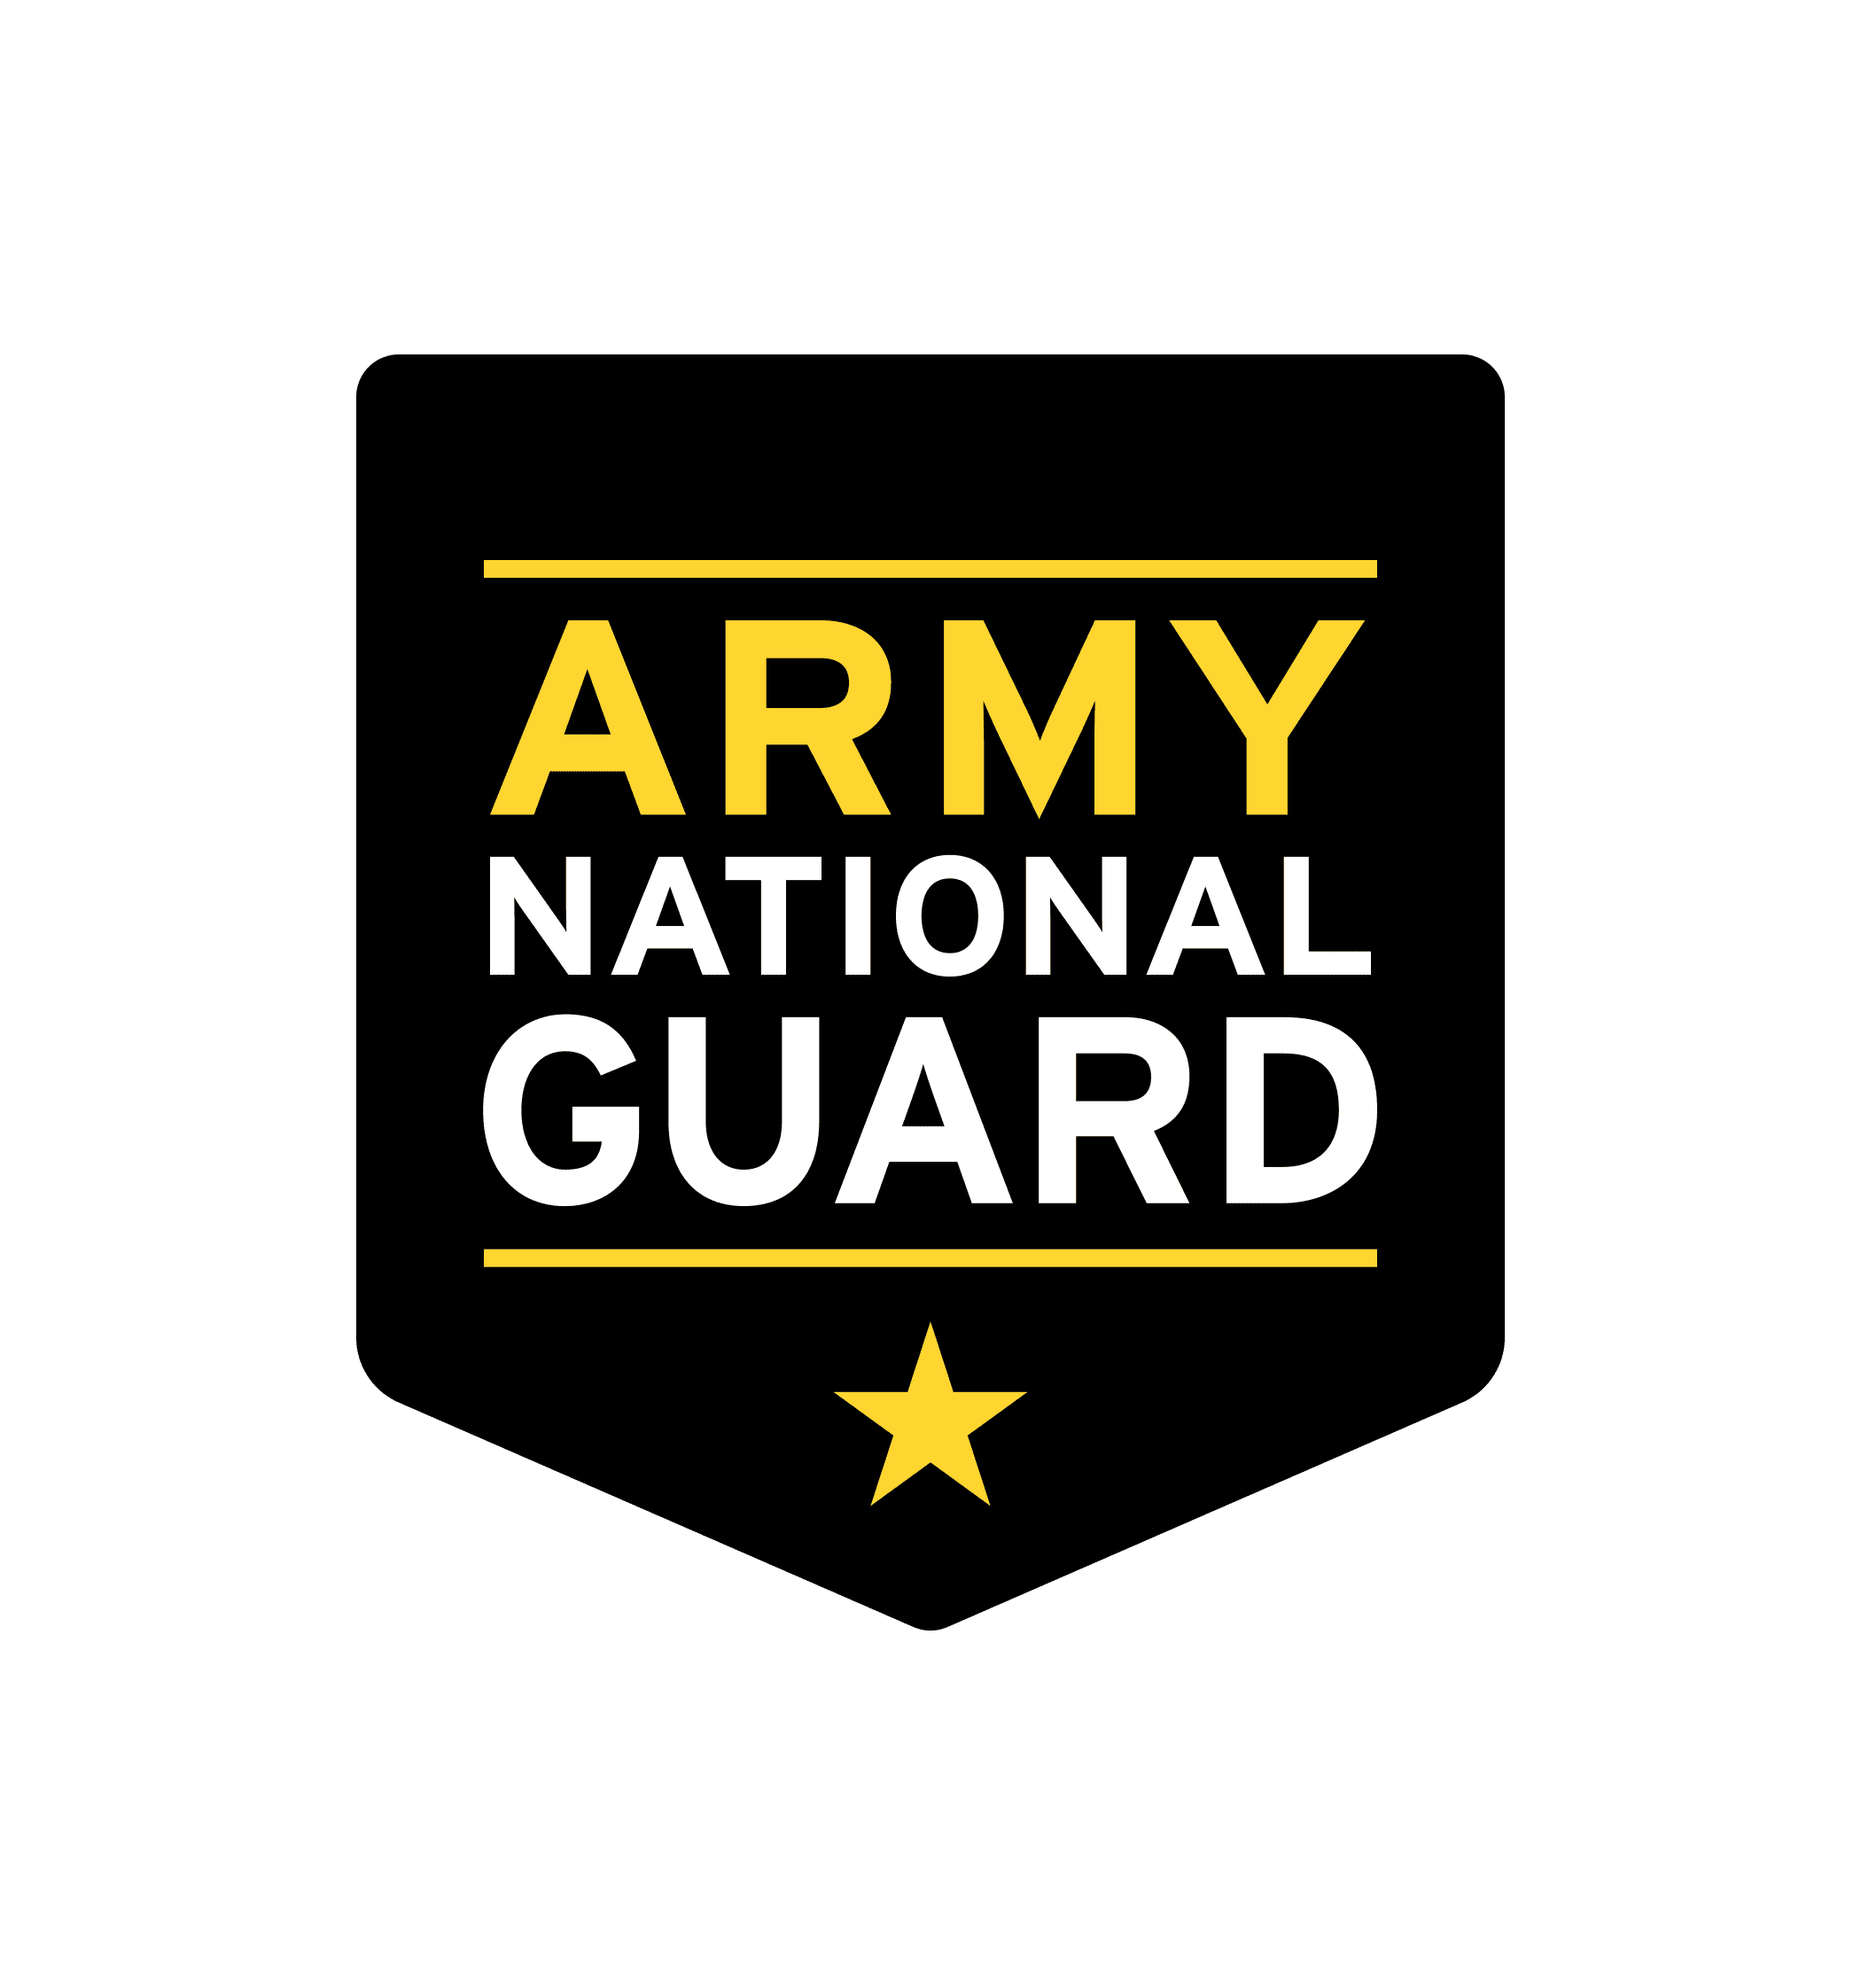
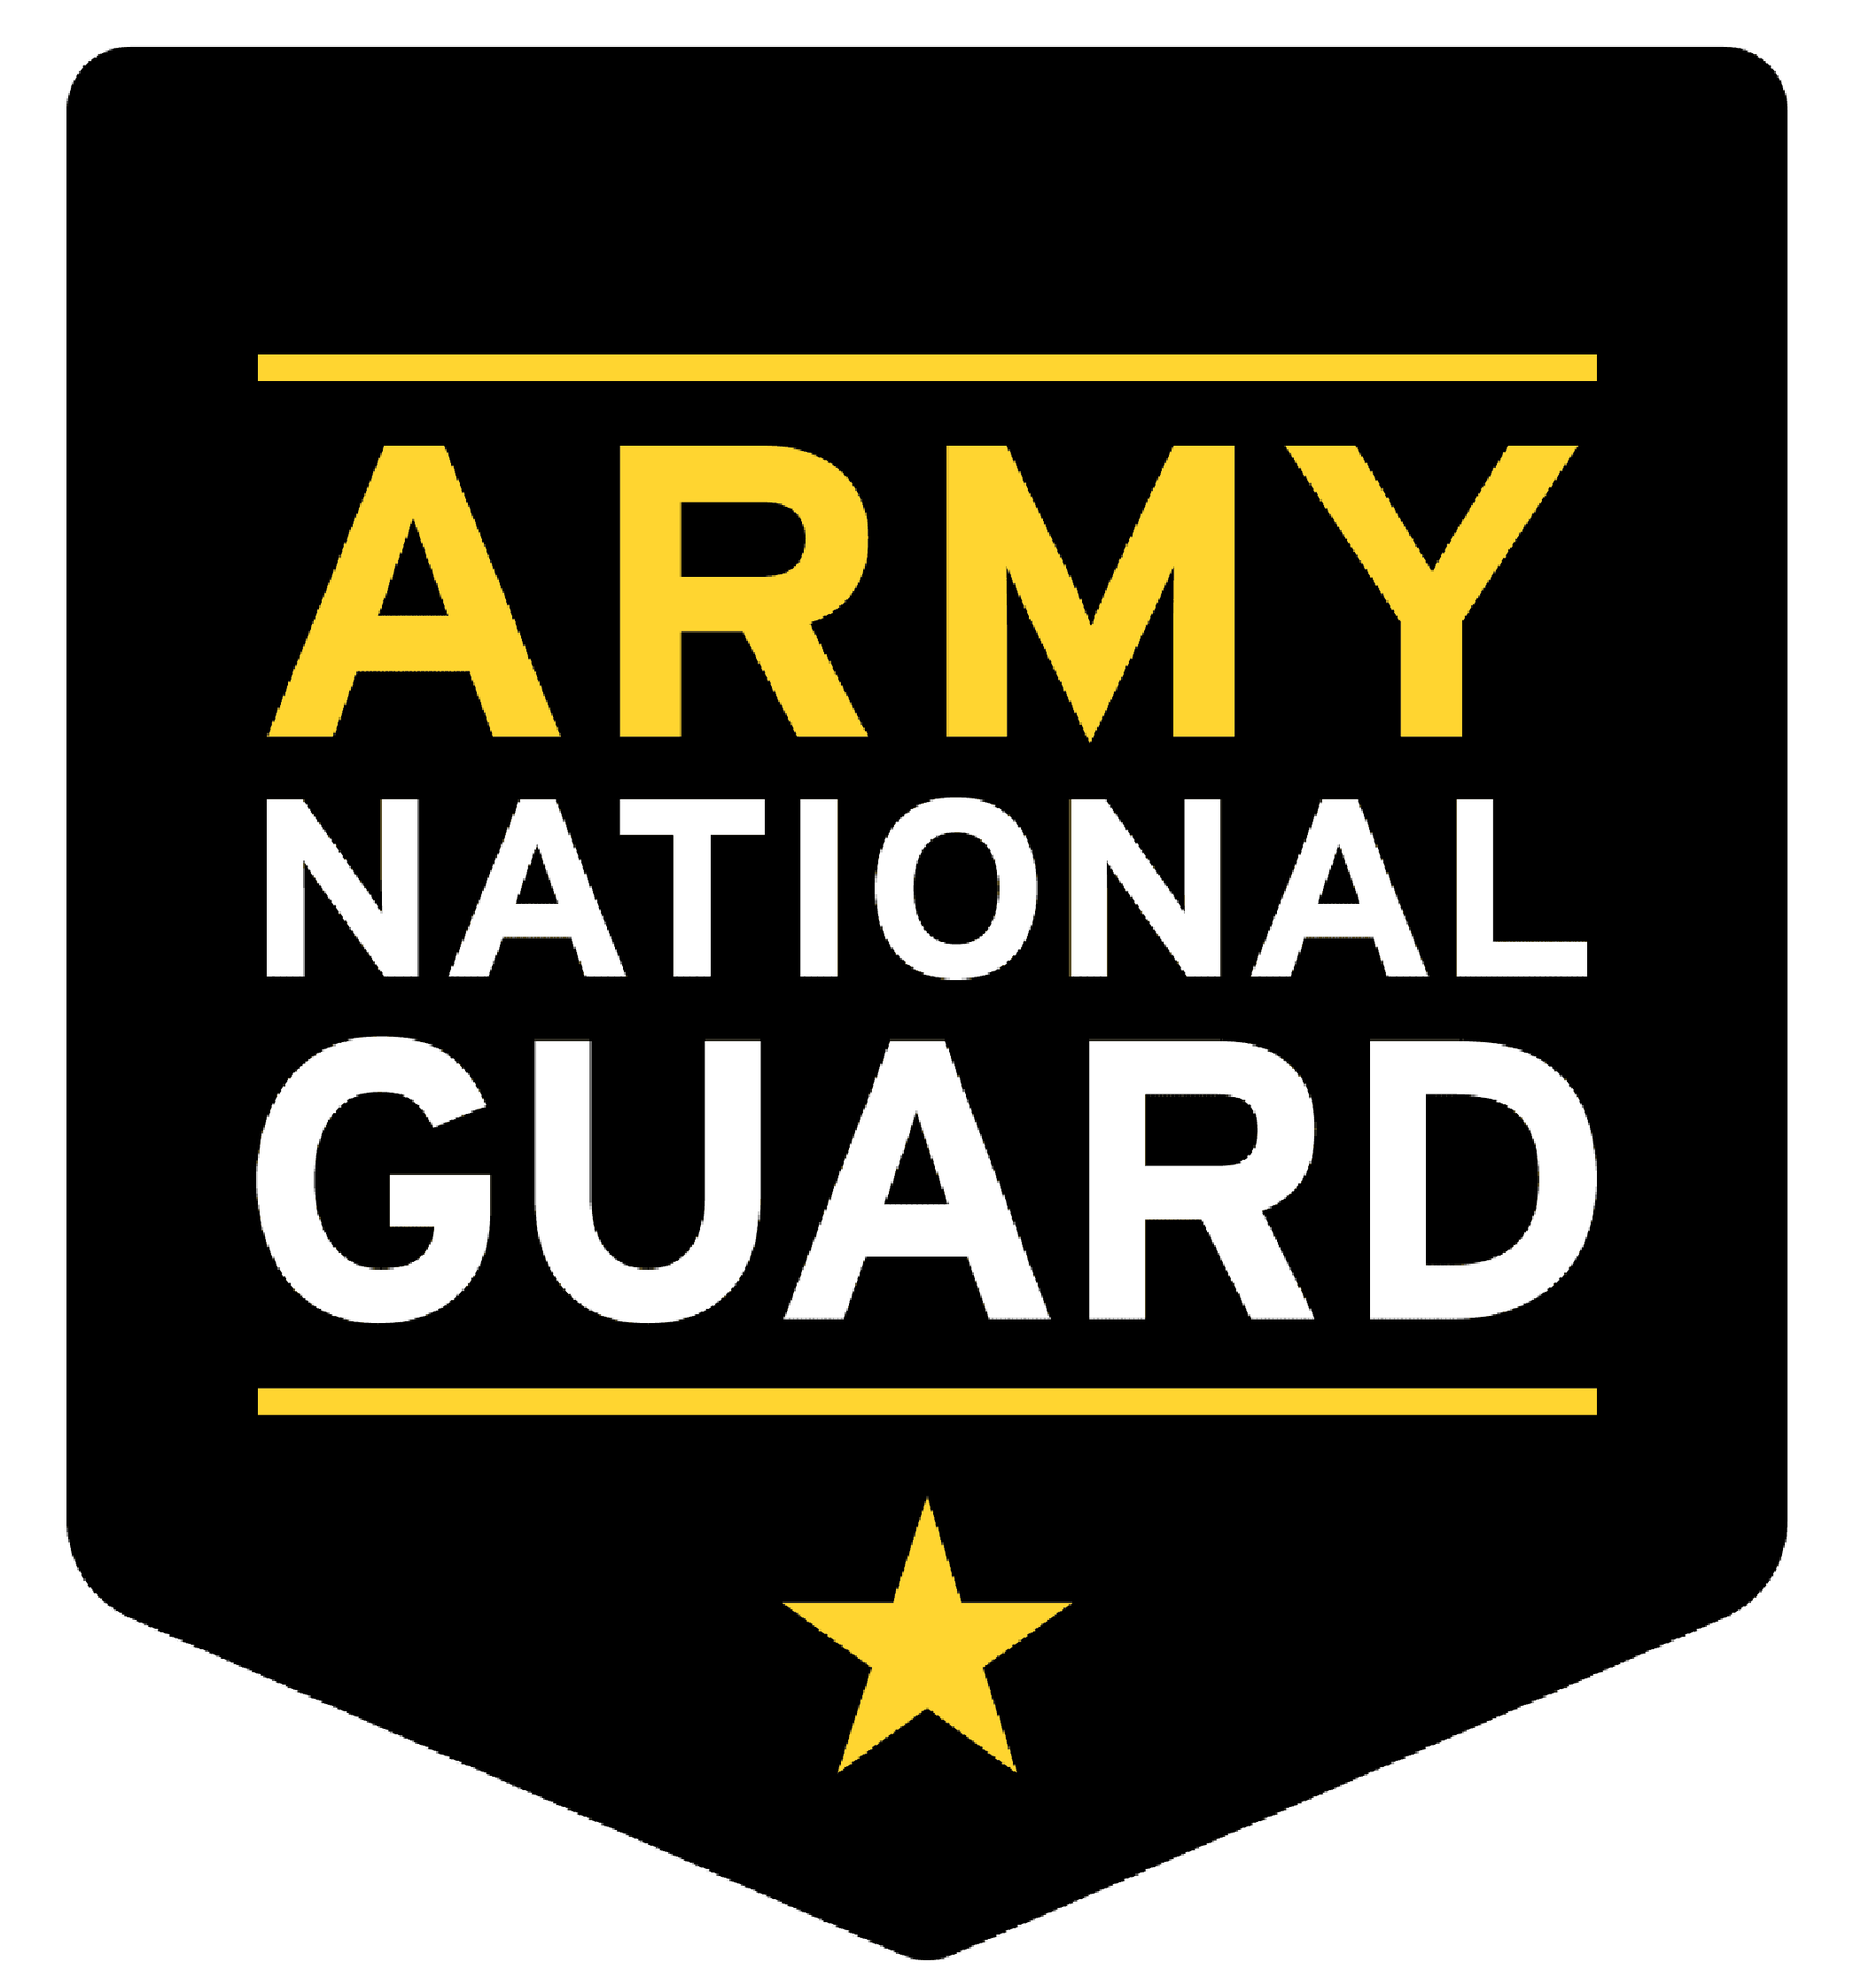
Images resized, profile card layout

diff --git a/Final-Project/professional-webpage/src/views/AboutMe.jsx b/Final-Project/professional-webpage/src/views/AboutMe.jsx
@@ -1,6 +1,7 @@
 import { useState, useEffect } from 'react';
 import '../styles/App.css';
 import Logo from '../components/Logo.jsx';
+import ProfileCard from '../components/ProfileCard.jsx';
 import axios from 'axios';
 
 export default function AboutMe() {
@@ -22,75 +23,58 @@ export default function AboutMe() {
         <header className="bg-indigo-800 text-5xl mt-20 w-full text-center rounded-xl shadow-xl p-3 border border-indigo-700">
           <img 
             className="h-40 w-40 object-cover rounded-full mx-auto shadow-lg hover:scale-105 transition-transform duration-300" 
-            src="../public/images/profile-image.png"
+            src="../images/profile-image.png"
             alt="profile"
           />
           <h1 className="mt-6 mb-6 text-blue-100 font-semibold text-5xl tracking-wide">{info.name}</h1>
           <div className="flex justify-center space-x-6 mt-4">
             <Logo
               link={info.contactInfo?.linkedin}
-              image="../public/images/linkedin-logo.png"
-              styling="hover:opacity-80 h-8 transition-transform duration-300 hover:scale-110"
+              path="../images/linkedin-logo.png"
+              styling="link"
             />
             <Logo
               link={info.contactInfo?.github}
-              image="../public/images/github-logo.png"
-              styling="hover:opacity-80 h-8 transition-transform duration-300 hover:scale-110"
+              path="../images/github-logo.png"
+              styling="link"
             />
             <Logo
               link={info.contactInfo?.discord}
-              image="../public/images/discord-logo.png"
-              styling="hover:opacity-80 h-9 transition-transform duration-300 hover:scale-110"
+              path="../images/discord-logo.png"
+              styling="link"
             />
             <Logo
               link={info.contactInfo?.email}
-              image="../public/images/gmail-logo.png"
-              styling="hover:opacity-80 h-10 transition-transform duration-300 hover:scale-110"
+              path="../images/gmail-logo.png"
+              styling="link"
             />
           </div>
         </header>
 
         <main className="w-full bg-indigo-900/80 backdrop-blur-sm rounded-xl shadow-xl p-10 mt-14 text-left text-blue-100 max-w-5xl mx-auto">
-            <h2 className="text-4xl font-bold mb-4 text-center text-indigo-100">Biography</h2>
-            <p className="text-xl text-center mb-6 text-indigo-300">Age: {info.age}</p>
-            <p
-              className="text-lg leading-relaxed border-l-4 border-indigo-400 pl-6 text-blue-200"
-              dangerouslySetInnerHTML={{ __html: info.biography }}
-            />
+          
+          <ProfileCard
+            title='Biography'
+            path={`Age: ${info.age}`}
+            description={info.biography}
+          />
+          
+          <div className="border-t-4 border-indigo-500 opacity-70 my-16 mx-4 rounded-sm"></div>
 
-            <div className="border-t-4 border-indigo-500 opacity-70 my-16 mx-4 rounded-sm"></div>
+          <ProfileCard
+            title='Education'
+            path='../images/ATU.png'
+            description={info.education?.atu}
+          />
 
-            <h2 className="text-4xl font-bold mb-10 text-center text-indigo-100">Education</h2>
-
-            <div className="flex flex-col items-center space-y-14">
-              <div className="text-center max-w-3xl">
-                <Logo
-                  link=""
-                  image="../public/images/ATU.png"
-                  styling="h-24 mx-auto mb-4 transition-transform duration-300 hover:scale-105"
-                />
-                <p
-                  className="text-lg leading-relaxed border-l-4 border-indigo-400 pl-6 text-blue-200"
-                  dangerouslySetInnerHTML={{ __html: info.education?.atu }}
-                />
-              </div>
-
-              <div className="text-center max-w-3xl">
-                <Logo
-                  link=""
-                  image="../public/images/ARNG.png"
-                  styling="h-30 mx-auto mb-4 transition-transform duration-300 hover:scale-105"
-                />
-                <p
-                  className="text-lg leading-relaxed border-l-4 border-indigo-400 pl-6 text-blue-200"
-                  dangerouslySetInnerHTML={{ __html: info.education?.ngar }}
-                />
-              </div>
-            </div>
+          <ProfileCard
+            path='../images/ARNG.png'
+            description={info.education?.ngar}
+          />
         </main>
 
 
-        <footer className="mt-10 mb-5 text-sm text-gray-400 text-center">
+        <footer className="mt-20 mb-5 text-sm text-gray-400 text-center">
           &copy; 2025 Brandon Hurt
         </footer>
 

diff --git a/Final-Project/professional-webpage/src/components/Logo.jsx b/Final-Project/professional-webpage/src/components/Logo.jsx
@@ -1,15 +1,26 @@
+import {useState, useEffect} from 'react';
 import '../styles/App.css';
 
-export default function Logo({link, image, styling}) {
+export default function Logo({link, path, styling}) {
+    const [style, setStyle] = useState('');
+
+    useEffect(() => {
+        if (styling == "link") {
+            setStyle('hover:opacity-80 h-10 transition-transform duration-300 hover:scale-110');
+        }
+        else if (styling = "image-small") {
+            setStyle('h-30 mx-auto mb-10 transition-transform duration-300 hover:scale-105');
+        }
+    }, []);
 
     return (
         <>
             {link !== '' ? ( // Ternary Operator for image switching
                 <a href={link} title={link}>
-                    <img src={image} className={styling}/>
+                    <img src={path} className={style}/>
                 </a>
             ) : (
-                <img src={image} className={styling}/>
+                <img src={path} className={style}/>
             )}
         </>
     );

diff --git a/Final-Project/professional-webpage/src/components/ProfileCard.jsx b/Final-Project/professional-webpage/src/components/ProfileCard.jsx
@@ -1,0 +1,26 @@
+import '../styles/App.css';
+import Logo from './Logo';
+
+export default function ProfileCard({ title, path, description }) {
+    const isImage = path && (/\.(jpeg|jpg|gif|png|webp)$/i).test(path);
+
+    return (
+        <>
+            <h2 className="text-4xl font-bold mb-10 text-center text-indigo-100">{title}</h2>
+
+            {isImage ? (
+                <Logo
+                    path={path}
+                    styling="image-small"
+                />
+            ) : (
+                <p className="text-xl text-center mb-8 text-indigo-300">{path}</p>
+            )}
+
+            <p
+                className="text-lg leading-relaxed border-l-4 border-indigo-400 pl-6 text-blue-200 mb-20"
+                dangerouslySetInnerHTML={{ __html: description }}
+            />
+        </>
+    );
+}

diff --git a/Final-Project/professional-webpage/src/views/Projects.jsx b/Final-Project/professional-webpage/src/views/Projects.jsx
@@ -1,9 +1,9 @@
-import {useState} from 'react';
+import {useState, useEffect} from 'react';
 import '../styles/App.css';
 import axios from 'axios';
 
 export default function Projects() {
-    const [projects, setProjects] = useState('');
+    const [projects, setProjects] = useState([]);
 
     useEffect(() => {
         axios.get('http://localhost:5000/projects')
